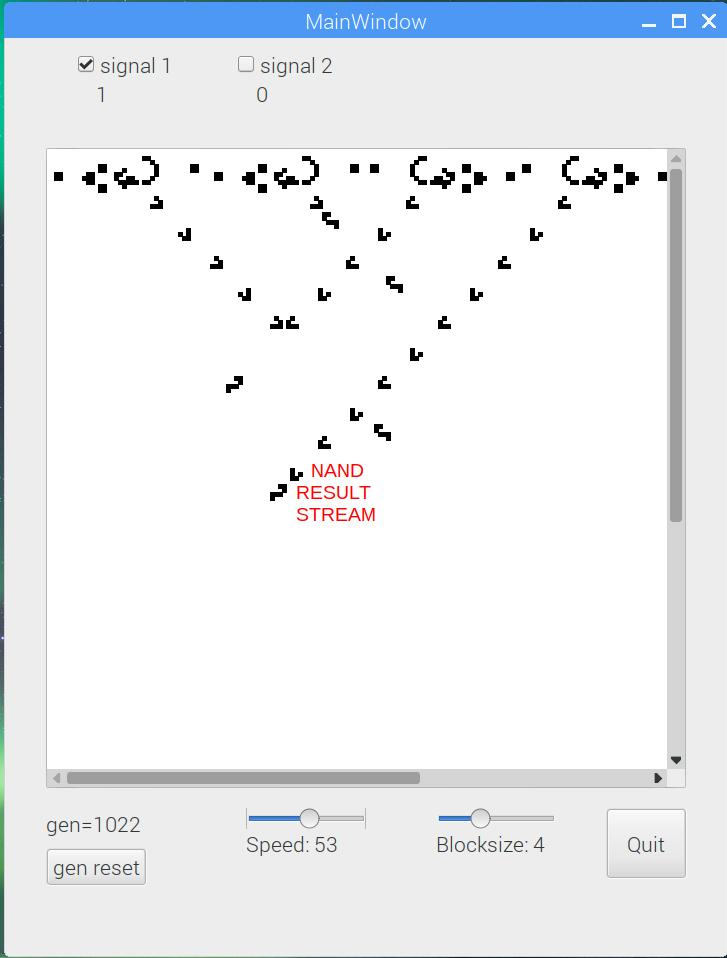
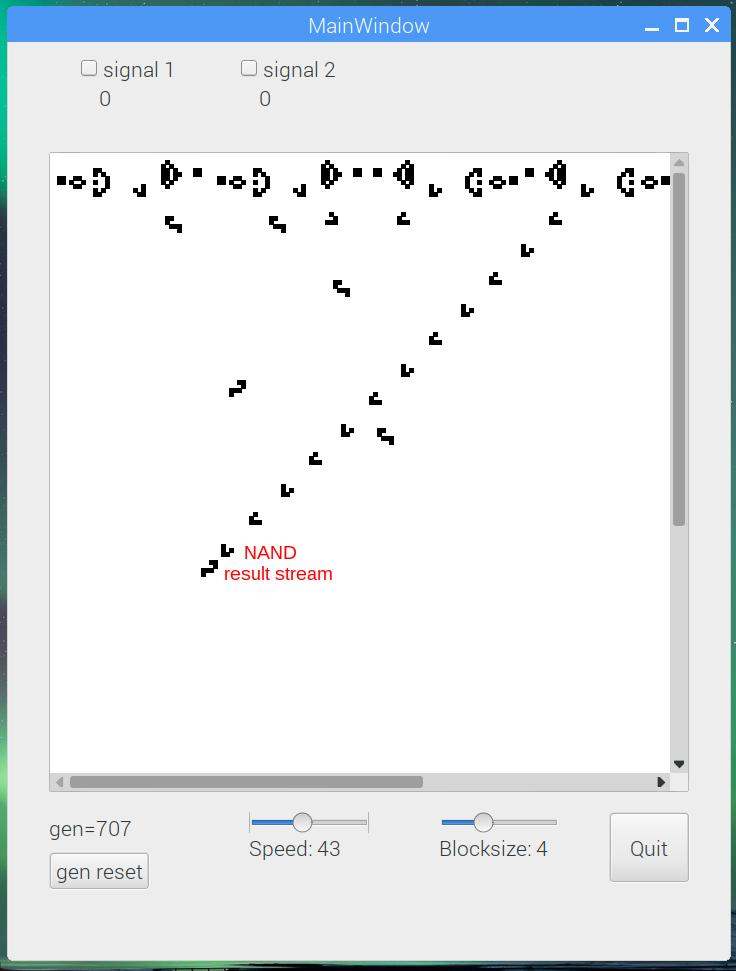
Add files via upload

diff --git a/qt/GoL_NAND_v1/mainwindow.cpp b/qt/GoL_NAND_v1/mainwindow.cpp
@@ -327,8 +327,8 @@ void ResetCircuit() {
     // glidergun 2: INPUT B
     put_GliderGun( GGy2, GGx2 );
     // Gun Eater 2
-    EaterY[2] =  GGy2 +  9 +4;
-    EaterX[2] =  GGx2 + 23 +4;
+    EaterY[2] =  GGy2 + 9 +4;
+    EaterX[2] =  GGx2 + 9 +4;
     put_GliderEater( EaterY[2], EaterX[2], stateGEater[2]); // INPUT B
 
     put_GliderEater( EaterY[2]+16, EaterX[2]+16, 0); // INF-STOP
@@ -337,25 +337,25 @@ void ResetCircuit() {
     // glidergun 3: GUN INVERT B
     put_GliderGunRev( GGy3, GGx3 );
     // Gun Eater 3
-    EaterY[3] =  GGy3 +  9    +45;
-    EaterX[3] =  GGx3 + 23-14 -45;
+    EaterY[3] =  GGy3 + 9 +9*5;
+    EaterX[3] =  GGx3 + 9 -9*5;
     put_GliderEaterRev( EaterY[3], EaterX[3], 0);
 
 
-    // glidergun 4: GUN INVERT => NAND
+    // glidergun 4: GUN INVERT => NAND output
     put_GliderGunRev( GGy4, GGx4 );
     // Gun Eater 4
-    EaterY[4] =  GGy4 + 9     +81;
-    EaterX[4] =  GGx4 + 23-14 -81;
+    EaterY[4] =  GGy4 + 9  +9*10;
+    EaterX[4] =  GGx4 + 9  -9*10;
     put_GliderEaterRev( EaterY[4], EaterX[4], stateGEater[4]);
 
 
 /*
-    // glidergun 5: CLOCK
+    // glidergun 5: CLOCK  // parallel to NAND output stream
     put_GliderGunRev( GGy5, GGx5 );
     // Gun Eater 5
-    EaterY[5] =  GGy5 + 9     +57;
-    EaterX[5] =  GGx5 + 23-14 -57;
+    EaterY[5] =  GGy5 + 9  +9*10;
+    EaterX[5] =  GGx5 + 9  -9*10;
     put_GliderEaterRev( EaterY[5], EaterX[5], stateGEater[5]);
 */
 
@@ -484,9 +484,9 @@ MainWindow::onUpdateTime() {
       GenerationCnt++;
 
 
-      QGraphicsTextItem* text = scene->addText("  NAND\nresult stream", QFont("Arial", 14) );
-      //setBrush(Qt::red);
-      text->setDefaultTextColor(Qt::red);
+      QGraphicsSimpleTextItem* text = scene->addSimpleText("    NAND\nresult stream", QFont("Arial", 14) );
+      text->setBrush(Qt::red);
+      //text->setDefaultTextColor(Qt::red);
       text->setPos(EaterX[4]*blockSize+8*blockSize-1, EaterY[4]*blockSize-3*blockSize+2);
 
 }

diff --git a/qt/GoL_NAND_v1/mainwindow.h b/qt/GoL_NAND_v1/mainwindow.h
@@ -40,7 +40,7 @@ private:
     QGraphicsEllipseItem *ellipse;
     QGraphicsEllipseItem *dot;
     QGraphicsRectItem *rectangle;
-    QGraphicsTextItem *text;
+    //QGraphicsTextItem *text;
     QGraphicsLineItem *line;
 
 };
